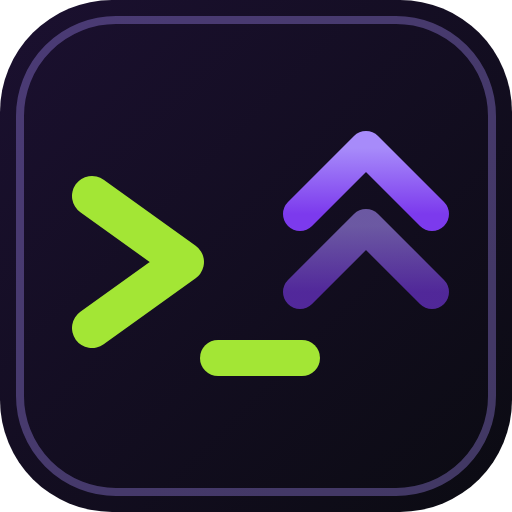
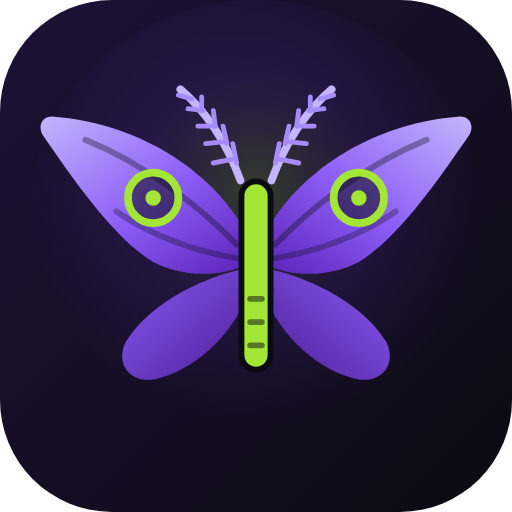
2.21.0: Neues Nachtfalter-Symbol, Anmeldebildschirm mit Bild, Abmelden-Knopf oben rechts
Claude-Session: https://claude.ai/code/session_015vg1TjHM7UdeuegoUkYE7j

diff --git a/js/konto.js b/js/konto.js
@@ -71,23 +71,27 @@ const main = $('#main');
 const msg = (t, ok = false) => { const e = $('#msg'); if (e) e.innerHTML = t ? `<div class="feedback ${ok ? 'ok' : 'no'}">${esc(t)}</div>` : ''; };
 const busy = (form, on) => form.querySelectorAll('button, input, select').forEach(x => { x.disabled = on; });
 
-function rahmen(inner) {
+function rahmen(inner, { held = false } = {}) {
+  const zurueck = $('#zumLab'); if (zurueck) zurueck.hidden = held; // abgemeldet: kein Weg am Login vorbei
   main.innerHTML = `${langNoteHTML()}<section class="stack" style="max-width:520px;margin:0 auto">
-    <h1 style="margin-bottom:.2rem">Nachtfalter-Konto</h1>
-    <p class="small muted" style="margin-top:0">Kostenlos registrieren – dein Fortschritt im Hacklab auf allen Geräten. <span class="badge plain">Beta</span></p>
+    ${held ? `<img class="held-bild" src="icons/hero.svg" alt="Ein Nachtfalter fliegt im Mondlicht über ein Terminal">
+    <div><h1 class="held-titel">Willkommen im <span>Hacklab</span></h1>
+    <p class="muted" style="margin:.2rem 0 0">Linux und ethisches Hacken lernen – Schritt für Schritt, direkt am Handy. Kostenlos.</p></div>` :
+    `<h1 style="margin-bottom:.2rem">Nachtfalter-Konto</h1>
+    <p class="small muted" style="margin-top:0">Kostenlos registrieren – dein Fortschritt im Hacklab auf allen Geräten. <span class="badge plain">Beta</span></p>`}
     ${hinweis ? `<div class="feedback ok">${esc(hinweis)}</div>` : ''}
     ${fehlerHinweis ? `<div class="feedback no">${esc(fehlerHinweis)}</div>` : ''}
     ${inner}
     <div id="msg"></div>
     <details class="card tight small"><summary>🌍 Sprache · Language · Мова</summary><div style="margin-top:.5rem">${langPickerHTML()}</div></details>
-    <p class="small muted"><a href="./">← Zurück zum Hacklab</a></p>
+    ${held ? '' : '<p class="small muted"><a href="./">← Zurück zum Hacklab</a></p>'}
   </section>`;
   bindLangPicker(main);
   hinweis = ''; fehlerHinweis = '';
 }
 
 function abgemeldet(tab = 'login') {
-  const t = (id, label) => `<button class="btn small ${tab === id ? 'primary' : 'ghost'}" data-tab="${id}">${label}</button>`;
+  const t = (id, label) => `<button type="button" role="tab" aria-selected="${tab === id}" class="${tab === id ? 'an' : ''}" data-tab="${id}">${label}</button>`;
   const formular = {
     login: `<form id="f" class="stack">
       <label>E-Mail<input type="email" name="email" autocomplete="email" required></label>
@@ -109,7 +113,11 @@ function abgemeldet(tab = 'login') {
       <label>E-Mail<input type="email" name="email" autocomplete="email" required></label>
       <button class="btn go block">Link zum Zurücksetzen schicken</button></form>`,
   }[tab];
-  rahmen(`<div class="row">${t('login', 'Anmelden')}${t('neu', 'Registrieren')}${t('vergessen', 'Passwort vergessen')}</div><div class="card">${formular}</div>`);
+  rahmen(`<div class="card anmelde-karte">
+    ${tab === 'vergessen' ? '<h3 style="margin:0 0 .6rem">Passwort vergessen?</h3>' : `<div class="reiter" role="tablist">${t('login', 'Anmelden')}${t('neu', 'Registrieren')}</div>`}
+    ${formular}
+    <p class="small" style="margin:.8rem 0 0;text-align:center">${tab === 'vergessen' ? '<button class="linkbtn" data-tab="login">← Zurück zur Anmeldung</button>' : tab === 'login' ? '<button class="linkbtn" data-tab="vergessen">Passwort vergessen?</button>' : 'Schon ein Konto? <button class="linkbtn" data-tab="login">Hier anmelden</button>'}</p>
+  </div>`, { held: true });
   main.querySelectorAll('[data-tab]').forEach(b => b.onclick = () => abgemeldet(b.dataset.tab));
   const f = $('#f');
   if (tab === 'neu') {

diff --git a/js/main.js b/js/main.js
@@ -125,8 +125,10 @@ function renderTop() {
     ${location.hostname.startsWith('vorschau.') ? `<span class="chip" style="background:var(--warn,#f5a524);color:#000" translate="no" title="Vorschau – noch nicht freigegeben"><span class="lbl">VORSCHAU </span>${esc(self.KLY_VERSION || '')}</span>` : ''}
     <button class="chip" id="locChip" title="Lernort ändern">${loc ? loc.icon + ' <span class="lbl">' + U(loc.short) + '</span>' : '📍 <span class="lbl">Lernort?</span>'}</button>
     ${syncConfigured() && !st.user ? `<a class="chip" href="konto.html" title="Anmelden oder kostenloses Konto anlegen" aria-label="Anmelden">👤 <span class="lbl">Anmelden</span></a>` :
-    `<a class="chip" href="#/mehr" title="${esc(st.msg)}"><span class="dot ${st.state === 'ok' ? 'ok' : st.state === 'err' ? 'err' : st.state === 'warn' || st.state === 'busy' ? 'warn' : ''}"></span>${st.state === 'ok' ? 'Sync' : st.state === 'off' ? 'Lokal' : st.state === 'busy' ? '…' : 'Sync'}</a>`}`;
+    `<a class="chip" href="#/mehr" title="${esc(st.msg)}"><span class="dot ${st.state === 'ok' ? 'ok' : st.state === 'err' ? 'err' : st.state === 'warn' || st.state === 'busy' ? 'warn' : ''}"></span>${st.state === 'ok' ? 'Sync' : st.state === 'off' ? 'Lokal' : st.state === 'busy' ? '…' : 'Sync'}</a>`}
+    ${st.user ? `<button class="chip" id="logoutChip" title="Abmelden (${esc(st.user.email || '')})" aria-label="Abmelden">⏻ <span class="lbl">Abmelden</span></button>` : ''}`;
   $('#locChip').onclick = () => locationModal(true);
+  const lo = $('#logoutChip'); if (lo) lo.onclick = async () => { if (!confirm('Wirklich abmelden? Dein Fortschritt ist im Konto gespeichert.')) return; try { await signOut(); } catch { /* offline */ } try { localStorage.removeItem('kly.auth'); } catch { /* */ } zurAnmeldung(); };
 }
 
 function renderNav(route) {

diff --git a/css/app.css b/css/app.css
@@ -249,3 +249,15 @@ a.karte:hover { border-color: var(--violet); }
   .top .chip .lbl { display: none; }
   .brand img { width: 26px; height: 26px; }
 }
+
+/* Anmeldebildschirm */
+.held-bild { display: block; width: 100%; height: auto; border-radius: 16px; border: 1px solid var(--line); box-shadow: 0 10px 40px rgba(124, 58, 237, .25); }
+.held-titel { font-size: 1.7rem; line-height: 1.2; margin: .2rem 0 0; }
+.held-titel span { color: var(--lime); }
+.anmelde-karte { padding: 1.1rem; }
+.reiter { display: grid; grid-template-columns: 1fr 1fr; gap: .3rem; padding: .3rem; margin-bottom: .9rem; background: var(--bg, #0b0b12); border: 1px solid var(--line); border-radius: 12px; }
+.reiter button { min-height: 44px; border: 0; border-radius: 9px; background: transparent; color: var(--muted); font: inherit; font-weight: 600; cursor: pointer; touch-action: manipulation; }
+.reiter button.an { background: var(--violet-d); color: #fff; }
+.linkbtn { background: none; border: 0; padding: .3rem; color: var(--violet); font: inherit; text-decoration: underline; cursor: pointer; min-height: 44px; }
+
+[hidden] { display: none !important; }

diff --git a/konto.html b/konto.html
@@ -13,7 +13,7 @@
   <script src="config.js"></script>
 </head>
 <body>
-  <header class="top"><a class="brand" href="konto.html" translate="no"><img src="icons/icon.svg" alt=""><span>Nachtfalter <b>Konto</b></span></a><span class="spacer"></span><a class="btn small ghost" href="./">🎮 Zum Hacklab</a></header>
+  <header class="top"><a class="brand" href="konto.html" translate="no"><img src="icons/icon.svg" alt=""><span>Nachtfalter <b>Konto</b></span></a><span class="spacer"></span><a class="btn small ghost" href="./" id="zumLab" hidden>🎮 Zum Hacklab</a></header>
   <main id="main" class="konto"><noscript><div class="card warn">Das Nachtfalter-Konto braucht JavaScript.</div></noscript></main>
   <footer class="fuss"><a href="start.html">Nachtfalter</a> · <a href="impressum.html">Impressum</a> · <a href="datenschutz.html">Datenschutz</a></footer>
   <script type="module" src="js/konto.js"></script>

diff --git a/app-files.js b/app-files.js
@@ -1,11 +1,12 @@
 // Liste aller App-Dateien: genutzt vom Service Worker (Offline-Cache) und vom App-Download (ZIP).
-self.KLY_VERSION = '2.20.0';
+self.KLY_VERSION = '2.21.0';
 self.KLY_FILES = [
   'index.html',
   'konto.html',
   'js/konto.js',
   'admin.html',
   'start.html',
+  'icons/hero.svg',
   'impressum.html',
   'datenschutz.html',
   'js/admin.js',
